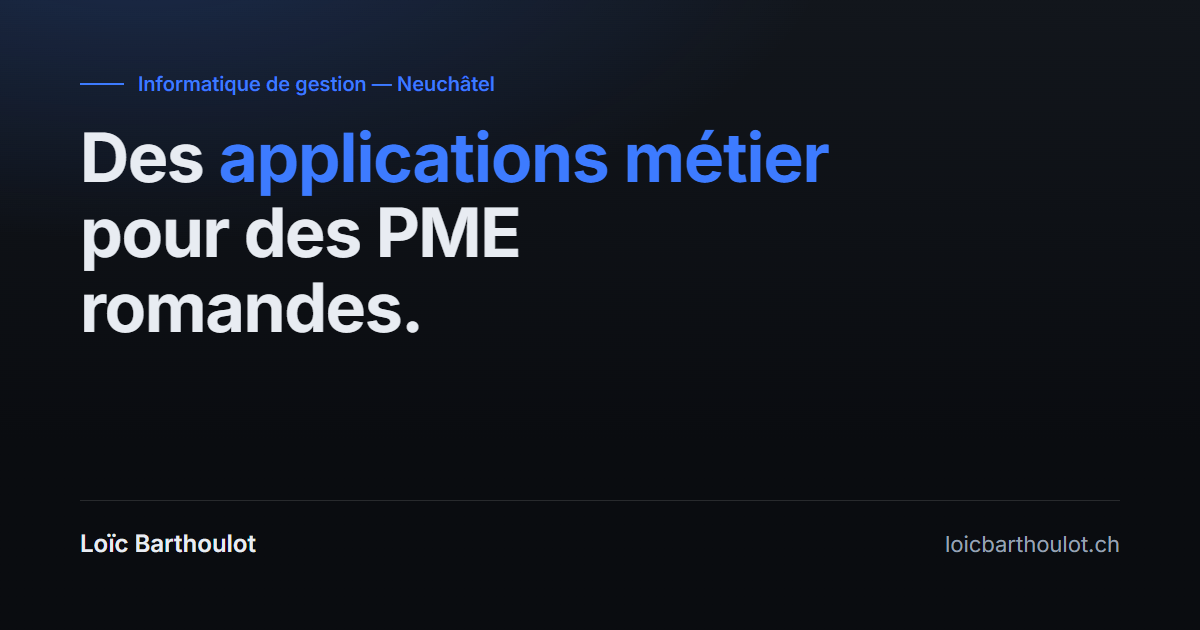
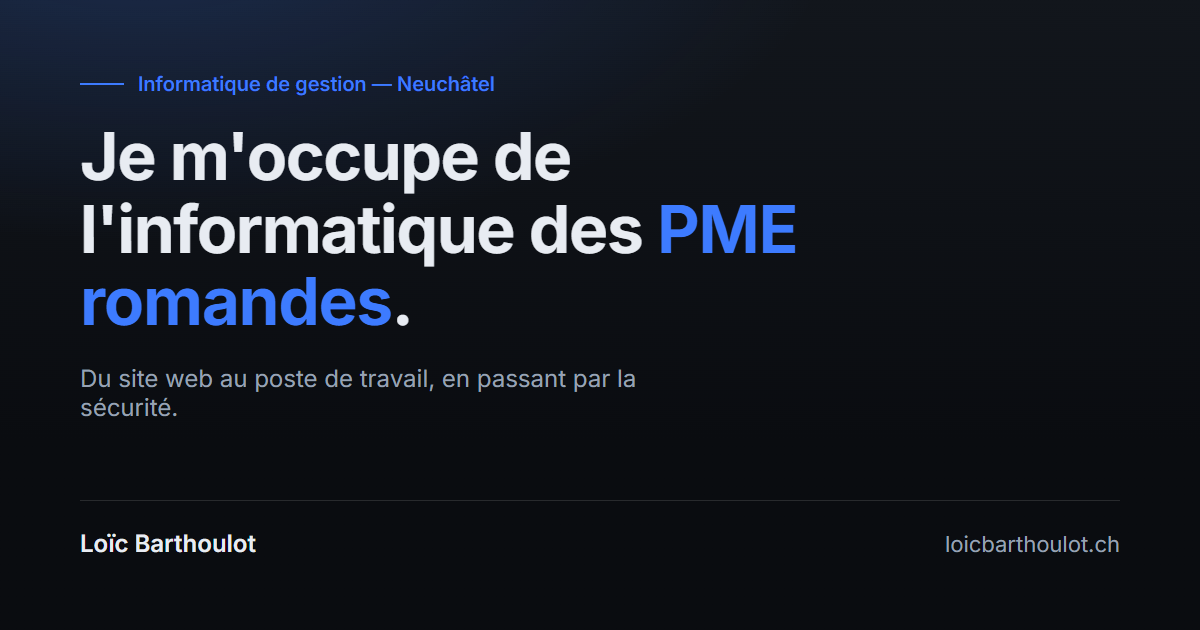
refactor(positionnement): passer d'un titre applications métier à un cadrage généraliste
Le site menait avec la seule prestation pour laquelle il n'existe aucune
preuve. C'est le défaut que le travail de contenu avait retiré partout
ailleurs.

Le titre devient « Je m'occupe de l'informatique des PME romandes », ce que
le CV atteste : des mandats de développement web, un mandat de sécurité
opérationnelle depuis 2023, du montage et du dépannage depuis 2020.

La sécurité et la supervision deviennent une prestation à part entière avec
sa page, décrite à partir de ce qui est réellement fait : administration
d'une console de détection et de réponse, qualification des détections,
traitement des alertes, suivi de l'état de protection du parc. C'était la
chose la plus rare du parcours et elle n'apparaissait que dans le CV.

Les applications métier redescendent à l'intérieur de la page digitalisation
de processus, comme un résultat possible et non comme un titre.

Titre du document, description, JSON-LD, image de partage et sitemap
suivent. Le texte du CV n'est pas touché.

Changed region(s): [[0.0617, 0.2111, 0.7092, 0.5429], [0.0617, 0.573, 0.5242, 0.6635]]

diff --git a/src/views/SecuriteSupervision.vue b/src/views/SecuriteSupervision.vue
@@ -1,0 +1,102 @@
+<template>
+  <section class="section">
+    <div class="container">
+      <p class="mb-4">
+        <router-link to="/services" class="text-body-secondary small text-decoration-none">
+          ← Retour aux prestations
+        </router-link>
+      </p>
+
+      <div class="row mb-5">
+        <div class="col-lg-8">
+          <p class="surtitre">Sécurité et supervision</p>
+          <h1 class="mb-3">Savoir ce qui se passe sur vos postes</h1>
+          <p class="lead text-body-secondary mb-0">
+            Une protection installée ne sert à rien si personne ne regarde ce
+            qu'elle remonte.
+          </p>
+        </div>
+      </div>
+
+      <div class="row g-4 mb-4">
+        <div class="col-lg-7">
+          <div class="panneau h-100">
+            <h2 class="h5 mb-3">Ce que je fais aujourd'hui</h2>
+            <p class="text-body-secondary">
+              Depuis 2023, j'assure la supervision de la sécurité opérationnelle
+              sur le parc client de PC-Shop Informatique, en mandat indépendant.
+              J'administre leur console de détection et de réponse, je surveille
+              les détections, je qualifie les alertes et je traite celles qui
+              le demandent.
+            </p>
+            <p class="text-body-secondary mb-0">
+              Je suis aussi l'état de protection des postes et je remonte les
+              cas qui nécessitent une intervention sur place.
+            </p>
+          </div>
+        </div>
+
+        <div class="col-lg-5">
+          <div class="panneau h-100">
+            <h2 class="h5 mb-3">Concrètement</h2>
+            <ul class="liste-marquee mb-0">
+              <li>Administration d'une console de détection et de réponse (XDR / EDR)</li>
+              <li>Surveillance et qualification des détections</li>
+              <li>Traitement des alertes, escalade des cas sérieux</li>
+              <li>Suivi de l'état de protection du parc</li>
+            </ul>
+          </div>
+        </div>
+      </div>
+
+      <div class="row g-4">
+        <div class="col-md-6">
+          <div class="panneau h-100">
+            <h3 class="h6 mb-2">Pourquoi ça compte pour une PME</h3>
+            <p class="small text-body-secondary mb-0">
+              La plupart des petites structures ont un antivirus et personne
+              pour lire ce qu'il signale. Une alerte non traitée est une alerte
+              inutile.
+            </p>
+          </div>
+        </div>
+        <div class="col-md-6">
+          <div class="panneau h-100">
+            <h3 class="h6 mb-2">Le cadre légal suit</h3>
+            <p class="small text-body-secondary mb-0">
+              La protection des données et la gouvernance de la sécurité font
+              partie de mon cursus. Un incident sur des données de clients a
+              aussi des conséquences juridiques.
+            </p>
+          </div>
+        </div>
+      </div>
+    </div>
+  </section>
+
+  <section class="section section--surface">
+    <div class="container">
+      <div class="row">
+        <div class="col-lg-7">
+          <h2 class="mb-3">Vous ne savez pas ce qui tourne sur vos postes ?</h2>
+          <p class="text-body-secondary mb-4">
+            Décrivez-moi votre parc et ce qui est installé dessus. On regarde
+            ensemble ce qui manque.
+          </p>
+          <router-link to="/contact" class="btn btn-primary">
+            Me contacter
+          </router-link>
+        </div>
+      </div>
+    </div>
+  </section>
+</template>
+
+<script setup lang="ts">
+import { usePageMeta } from '@/composables/usePageMeta'
+usePageMeta(
+  'Sécurité et supervision | Loïc Barthoulot',
+  'Supervision de la sécurité opérationnelle : administration d\'une console de détection et de réponse, qualification des alertes, suivi de l\'état de protection du parc.',
+  { path: '/services/securite-supervision' }
+)
+</script>

diff --git a/src/views/Services.vue b/src/views/Services.vue
@@ -6,29 +6,22 @@
           <p class="surtitre">Prestations</p>
           <h1 class="mb-3">Ce que je fais</h1>
           <p class="lead text-body-secondary mb-0">
-            Applications métier, digitalisation de processus, sites web et
-            support informatique, pour des PME de Suisse romande.
+            Sites web, digitalisation de processus, sécurité et support
+            informatique, pour des PME de Suisse romande.
           </p>
         </div>
       </div>
 
       <div class="row g-4">
         <div class="col-lg-6">
-          <div class="panneau h-100">
-            <h2 class="h4 mb-3">Applications métier</h2>
-            <p class="text-body-secondary">
-              Un outil développé sur mesure pour une entreprise donnée : suivi
-              de dossiers, gestion de stock, saisie qui alimente directement la
-              facturation. L'analyse du besoin vient avant le développement, et
-              la modélisation est validée avec vous.
+          <router-link to="/services/creation-site-web" class="carte-lien">
+            <h2 class="carte-lien__titre h4">Création de site web</h2>
+            <p class="carte-lien__texte">
+              Site vitrine adapté au mobile, avec référencement de base,
+              formulaire de contact, hébergement et mise en ligne.
             </p>
-            <p class="small text-body-secondary mb-4">
-              Java, Vue 3 et TypeScript, bases de données SQL et Oracle.
-            </p>
-            <router-link to="/contact" class="btn btn-primary btn-sm">
-              Décrire votre besoin
-            </router-link>
-          </div>
+            <span class="carte-lien__suite">Voir le détail</span>
+          </router-link>
         </div>
 
         <div class="col-lg-6">
@@ -36,19 +29,19 @@
             <h2 class="carte-lien__titre h4">Digitalisation de processus</h2>
             <p class="carte-lien__texte">
               J'analyse ce qui se fait à la main dans votre entreprise, puis
-              j'automatise ce qui est répétitif. Vos outils actuels restent en
-              place.
+              j'automatise ce qui est répétitif. Cela va d'un document généré
+              automatiquement à un outil métier développé sur mesure.
             </p>
             <span class="carte-lien__suite">Voir le détail</span>
           </router-link>
         </div>
 
         <div class="col-lg-6">
-          <router-link to="/services/creation-site-web" class="carte-lien">
-            <h2 class="carte-lien__titre h4">Création de site web</h2>
+          <router-link to="/services/securite-supervision" class="carte-lien">
+            <h2 class="carte-lien__titre h4">Sécurité et supervision</h2>
             <p class="carte-lien__texte">
-              Site vitrine adapté au mobile, avec référencement de base,
-              formulaire de contact, hébergement et mise en ligne.
+              Surveillance des détections sur vos postes, qualification et
+              traitement des alertes, suivi de l'état de protection du parc.
             </p>
             <span class="carte-lien__suite">Voir le détail</span>
           </router-link>
@@ -102,7 +95,7 @@
 import { usePageMeta } from '@/composables/usePageMeta'
 usePageMeta(
   'Ce que je fais | Loïc Barthoulot',
-  'Applications métier, digitalisation de processus, création de site web, support et matériel informatique pour PME de Suisse romande.',
+  'Création de site web, digitalisation de processus, sécurité et supervision, support et matériel informatique pour PME de Suisse romande.',
   { path: '/services' }
 )
 </script>

diff --git a/src/views/Home.vue b/src/views/Home.vue
@@ -6,12 +6,12 @@
         <div class="col-lg-9">
           <p class="surtitre">Informatique de gestion — Neuchâtel</p>
           <h1 class="hero__titre mb-4">
-            Des <span class="hero__accent">applications métier</span>
-            pour des PME romandes.
+            Je m'occupe de l'informatique
+            des <span class="hero__accent">PME romandes</span>.
           </h1>
           <p class="hero__texte mb-4">
-            Je regarde comment votre entreprise travaille, puis je construis
-            l'outil qui prend en charge ce qui se répète.
+            Du site web au poste de travail, en passant par la sécurité et
+            l'automatisation de ce qui se répète.
           </p>
           <div class="d-flex flex-wrap gap-3">
             <router-link to="/services" class="btn btn-primary">
@@ -34,21 +34,22 @@
           <p class="surtitre">Prestations</p>
           <h2 class="mb-3">Quatre façons d'intervenir</h2>
           <p class="section__intro mb-0">
-            De l'analyse d'un processus au poste de travail, en passant par
-            l'outil qui fait le lien.
+            Construire, automatiser, surveiller, réparer. Selon ce dont votre
+            entreprise a besoin.
           </p>
         </div>
       </div>
 
       <div class="row g-4">
         <div class="col-md-6 col-xl-3">
-          <div class="panneau h-100">
-            <h3 class="carte-lien__titre h5">Applications métier</h3>
-            <p class="text-body-secondary mb-0">
-              Un outil développé sur mesure, qui suit le fonctionnement réel
-              de l'entreprise plutôt que l'inverse.
+          <router-link to="/services/creation-site-web" class="carte-lien">
+            <h3 class="carte-lien__titre h5">Sites web</h3>
+            <p class="carte-lien__texte">
+              Site vitrine adapté au mobile, avec référencement de base,
+              hébergement et mise en ligne.
             </p>
-          </div>
+            <span class="carte-lien__suite">Voir le détail</span>
+          </router-link>
         </div>
 
         <div class="col-md-6 col-xl-3">
@@ -63,11 +64,11 @@
         </div>
 
         <div class="col-md-6 col-xl-3">
-          <router-link to="/services/creation-site-web" class="carte-lien">
-            <h3 class="carte-lien__titre h5">Sites web</h3>
+          <router-link to="/services/securite-supervision" class="carte-lien">
+            <h3 class="carte-lien__titre h5">Sécurité et supervision</h3>
             <p class="carte-lien__texte">
-              Site vitrine adapté au mobile, avec référencement de base et mise
-              en ligne.
+              Surveillance des détections sur vos postes, qualification et
+              traitement des alertes.
             </p>
             <span class="carte-lien__suite">Voir le détail</span>
           </router-link>
@@ -148,8 +149,8 @@
 <script setup lang="ts">
 import { usePageMeta } from '@/composables/usePageMeta'
 usePageMeta(
-  'Loïc Barthoulot — Applications métier et digitalisation de processus',
-  'Je construis des applications métier et j\'automatise des processus pour des PME de Suisse romande. Sites web, support et matériel.',
+  'Loïc Barthoulot — Informatique pour PME de Suisse romande',
+  'Sites web, digitalisation de processus, sécurité et supervision, support et matériel. Prestataire informatique indépendant à Neuchâtel.',
   { path: '/' }
 )
 </script>

diff --git a/index.html b/index.html
@@ -4,11 +4,11 @@
     <meta charset="UTF-8" />
     <link rel="icon" type="image/png" href="/logo.png" />
     <meta name="viewport" content="width=device-width, initial-scale=1.0" />
-    <meta name="description" content="Je construis des applications métier et j'automatise des processus pour des PME de Suisse romande. Sites web, support et matériel.">
+    <meta name="description" content="Sites web, digitalisation de processus, sécurité et supervision, support et matériel. Prestataire informatique indépendant à Neuchâtel.">
     <meta name="theme-color" content="#0a0c10" />
     <meta name="robots" content="index, follow" />
     <meta name="author" content="Loïc Barthoulot" />
-    <title>Loïc Barthoulot — Applications métier et digitalisation de processus</title>
+    <title>Loïc Barthoulot — Informatique pour PME de Suisse romande</title>
     <script type="application/ld+json">
     {
       "@context": "https://schema.org",
@@ -36,7 +36,7 @@
       "email": "contact@loicbarthoulot.ch",
       "image": "https://loicbarthoulot.ch/logo.png",
       "logo": "https://loicbarthoulot.ch/logo.png",
-      "description": "Applications métier, digitalisation de processus et sites web pour des PME de Suisse romande. Support et matériel informatique.",
+      "description": "Prestataire informatique pour PME de Suisse romande : sites web, digitalisation de processus, sécurité et supervision, support et matériel.",
       "areaServed": {
         "@type": "Country",
         "name": "Suisse"
@@ -53,6 +53,14 @@
             "@type": "Offer",
             "itemOffered": {
               "@type": "Service",
+              "name": "Création de site web",
+              "url": "https://loicbarthoulot.ch/services/creation-site-web"
+            }
+          },
+          {
+            "@type": "Offer",
+            "itemOffered": {
+              "@type": "Service",
               "name": "Digitalisation de processus",
               "url": "https://loicbarthoulot.ch/services/automatisation-ia"
             }
@@ -61,8 +69,8 @@
             "@type": "Offer",
             "itemOffered": {
               "@type": "Service",
-              "name": "Création de site web",
-              "url": "https://loicbarthoulot.ch/services/creation-site-web"
+              "name": "Sécurité et supervision",
+              "url": "https://loicbarthoulot.ch/services/securite-supervision"
             }
           },
           {

diff --git a/src/main.ts b/src/main.ts
@@ -11,6 +11,7 @@ import CV from './views/CV.vue'
 import Contact from './views/Contact.vue'
 import AutomatisationIa from './views/AutomatisationIa.vue'
 import SupportMateriel from './views/SupportMateriel.vue'
+import SecuriteSupervision from './views/SecuriteSupervision.vue'
 import MentionsLegales from './views/MentionsLegales.vue'
 import Confidentialite from './views/Confidentialite.vue'
 
@@ -19,6 +20,7 @@ const routes = [
   { path: '/services', name: 'Services', component: Services },
   { path: '/services/automatisation-ia', name: 'AutomatisationIa', component: AutomatisationIa },
   { path: '/services/creation-site-web', name: 'CreationSiteWeb', component: CreationSiteWeb },
+  { path: '/services/securite-supervision', name: 'SecuriteSupervision', component: SecuriteSupervision },
   { path: '/services/support-materiel', name: 'SupportMateriel', component: SupportMateriel },
 
   // Anciennes URL, conservées pour ne pas casser les liens existants

diff --git a/src/composables/usePageMeta.ts b/src/composables/usePageMeta.ts
@@ -34,7 +34,7 @@ export function usePageMeta(
       { property: 'og:image', content: image },
       { property: 'og:image:width', content: '1200' },
       { property: 'og:image:height', content: '630' },
-      { property: 'og:image:alt', content: 'Loïc Barthoulot — des applications métier pour des PME romandes' },
+      { property: 'og:image:alt', content: 'Loïc Barthoulot — informatique pour PME de Suisse romande' },
       { property: 'og:site_name', content: SITE_NAME },
       { property: 'og:locale', content: 'fr_CH' },
       { name: 'twitter:card', content: 'summary_large_image' },

diff --git a/src/views/AutomatisationIa.vue b/src/views/AutomatisationIa.vue
@@ -30,7 +30,9 @@
               prend en charge ce qui est répétitif.
             </p>
             <p class="text-body-secondary mb-0">
-              Vos outils actuels restent en place.
+              Selon le cas, cela va d'un document généré automatiquement à une
+              application métier développée sur mesure. Vos outils actuels
+              restent en place.
             </p>
           </div>
         </div>
